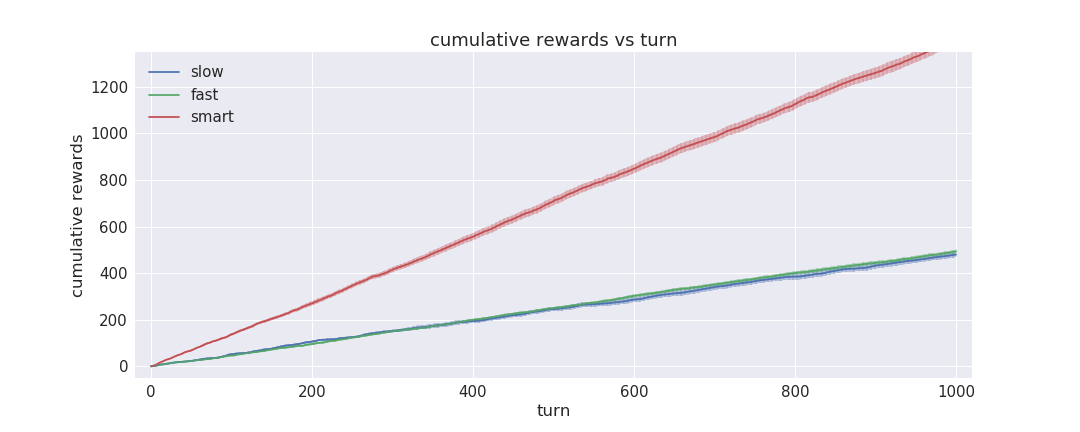
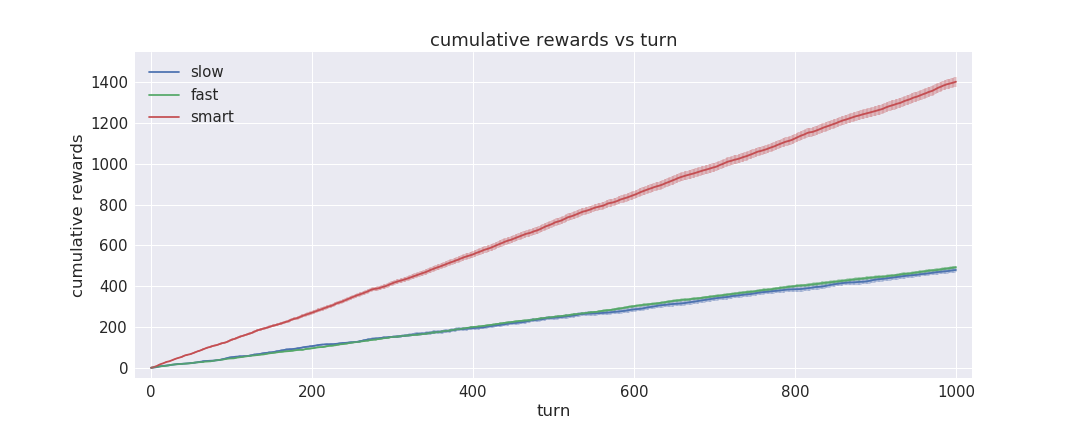
bug

diff --git a/README.md b/README.md
@@ -106,7 +106,7 @@ the data volumes are too small to benefit from GPU acceleration. Cat-chase-grass
 is then played using the 'smart' strategy with the trained neural net steering the cat:<br />
 ![](figs/xy_smart.png)<br />
 Close inspection shows that the AI-driven cat does indeed run fast between hops,
-with 180s used to back the cat over the bug again. The istribution of actions selected by
+with 180s used to reverse the cat over the bug again. The distribution of actions selected by
 the AI is:
 ![](figs/actions.png)<br />
 
@@ -114,6 +114,8 @@ Cat-chase-grasshopper is then played 20 more times for each of the cat-navigatio
 strategies (slow, fast, and smart), and the following charts the average rate
 at which each strategy accumulates rewards:
 ![](figs/strategy_rewards.png)
+Note that he slow and fast strategies accrue rewards at nearly identical rates,
+while the smart strategy generates rewards almost 3 times faster.
 
 :thumbsup:
 
